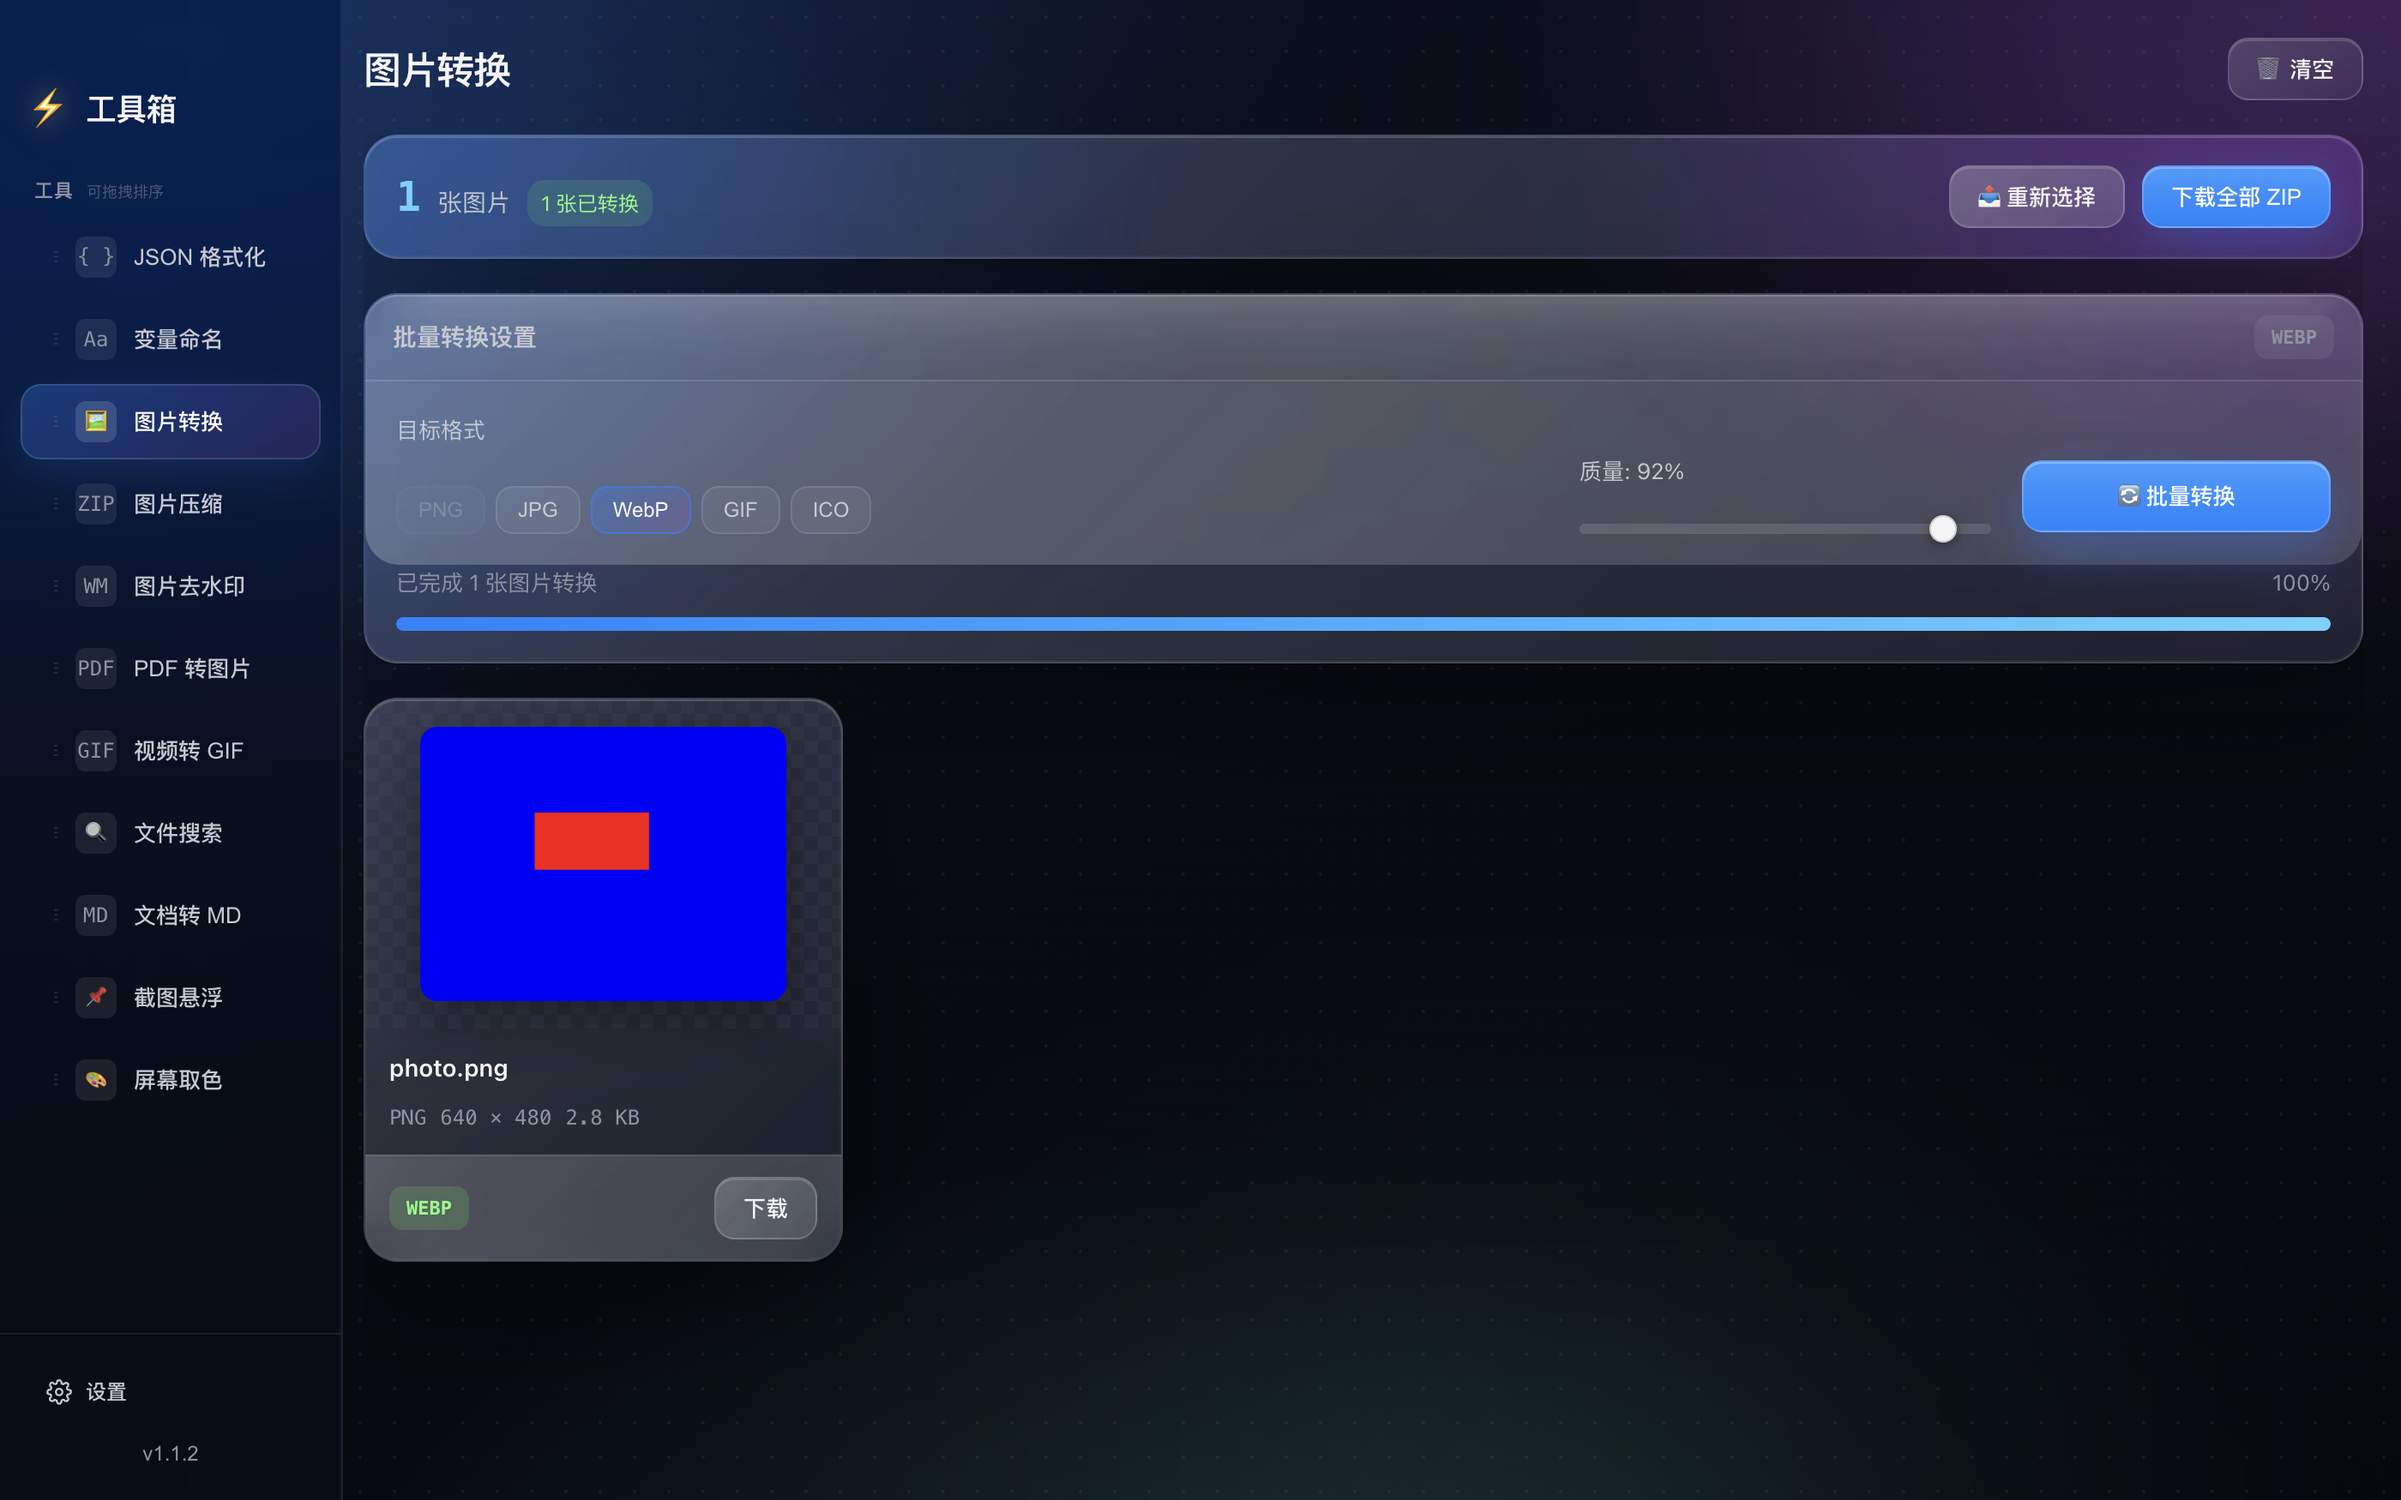
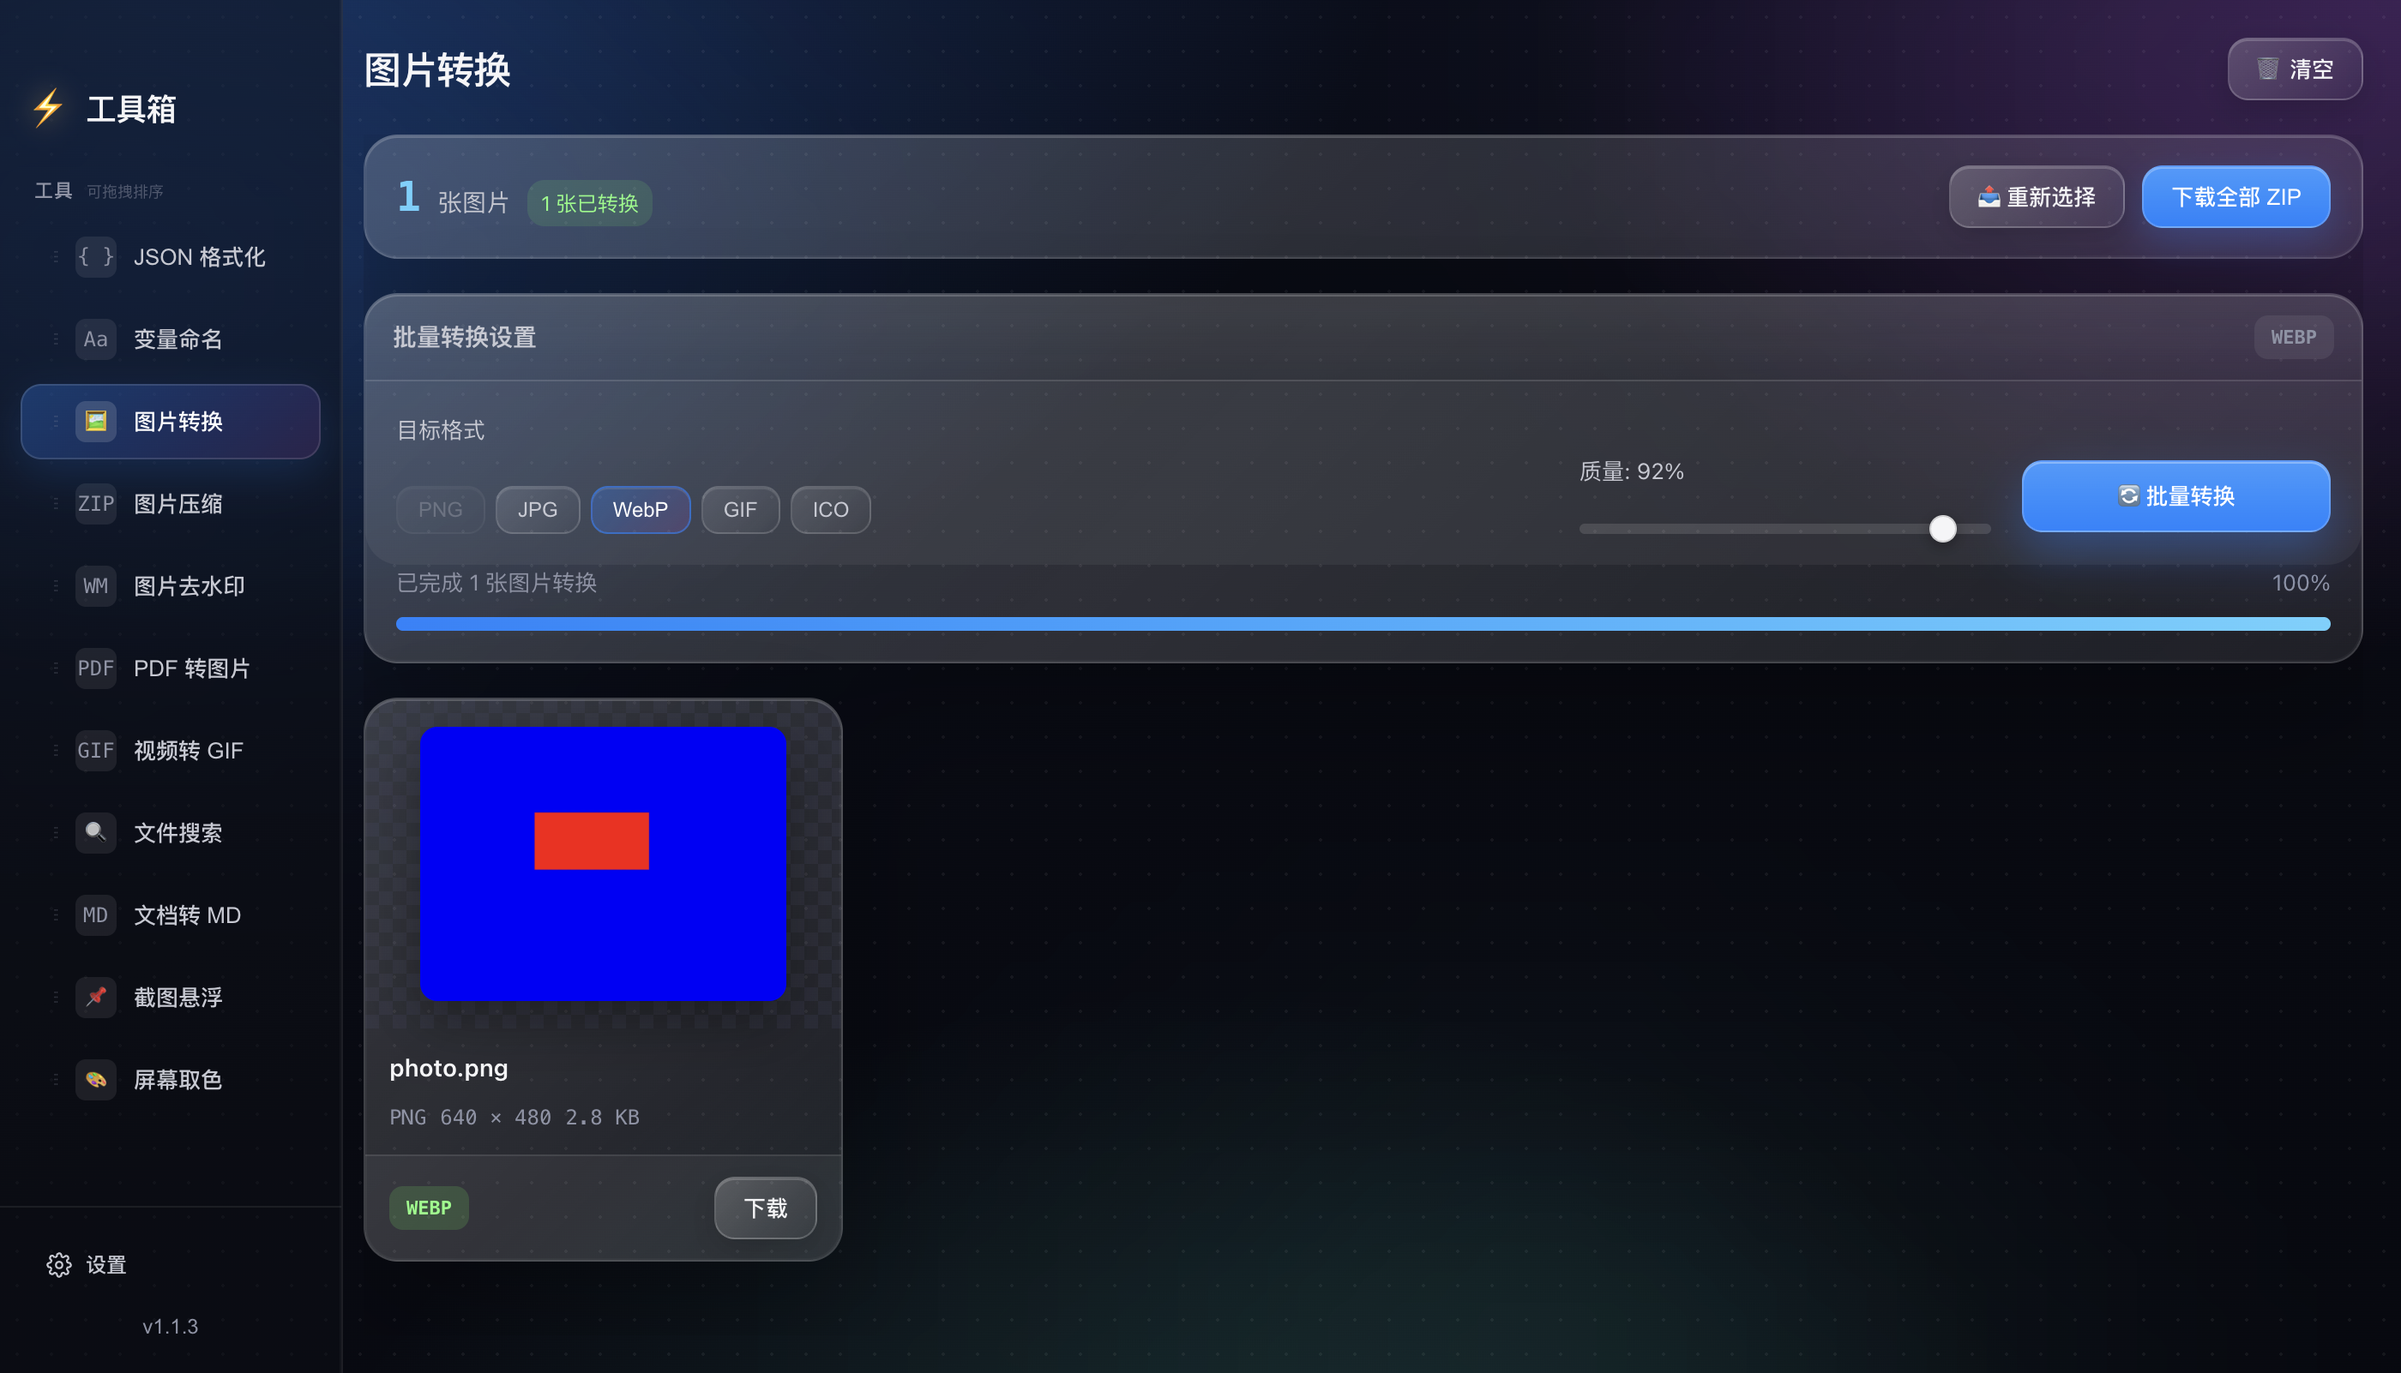
更新 README 截图并增加打包重试
- 重新生成 14 张功能截图，反映 1.1.3 玻璃主题与设置页
- CI 打包失败自动重试一次，规避 DMG 挂载偶发占用
- 移除临时语言诊断探针

diff --git a/src/i18n/messages.ts b/src/i18n/messages.ts
@@ -67,10 +67,6 @@ const patterns: Array<[RegExp, string]> = [
   [/^转换超时，请确认文件大小或 MarkItDown 安装状态$/, "Conversion timed out. Check the file size or MarkItDown installation."],
 ];
 
-if (typeof window !== "undefined") {
-  (window as any).__bennettLanguage = () => currentLanguage;
-}
-
 export function translate(language: Language, text: string): string {
   if (language !== "en-US") return text;
   const match = /^(\s*)([\s\S]*?)(\s*)$/.exec(text);
